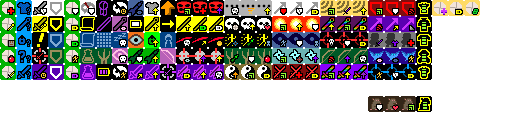
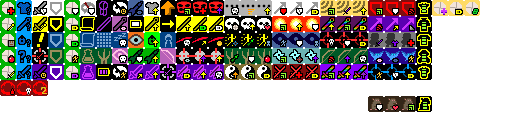
完成暴食狂宴

Changed region(s): [[0.0, 0.625, 0.0938, 0.75], [0.4688, 0.0625, 0.5, 0.125]]

diff --git a/core/src/main/java/com/shatteredpixel/shatteredpixeldungeon/actors/hero/abilities/warrior/Feast.java b/core/src/main/java/com/shatteredpixel/shatteredpixeldungeon/actors/hero/abilities/warrior/Feast.java
@@ -4,9 +4,11 @@ import com.shatteredpixel.shatteredpixeldungeon.Assets;
 import com.shatteredpixel.shatteredpixeldungeon.Dungeon;
 import com.shatteredpixel.shatteredpixeldungeon.actors.Actor;
 import com.shatteredpixel.shatteredpixeldungeon.actors.Char;
+import com.shatteredpixel.shatteredpixeldungeon.actors.buffs.Bleeding;
 import com.shatteredpixel.shatteredpixeldungeon.actors.buffs.Blindness;
 import com.shatteredpixel.shatteredpixeldungeon.actors.buffs.Buff;
 import com.shatteredpixel.shatteredpixeldungeon.actors.buffs.Cripple;
+import com.shatteredpixel.shatteredpixeldungeon.actors.buffs.Healing;
 import com.shatteredpixel.shatteredpixeldungeon.actors.buffs.Hunger;
 import com.shatteredpixel.shatteredpixeldungeon.actors.buffs.Invisibility;
 import com.shatteredpixel.shatteredpixeldungeon.actors.buffs.Terror;
@@ -14,18 +16,25 @@ import com.shatteredpixel.shatteredpixeldungeon.actors.hero.Hero;
 import com.shatteredpixel.shatteredpixeldungeon.actors.hero.Talent;
 import com.shatteredpixel.shatteredpixeldungeon.actors.hero.abilities.ArmorAbility;
 import com.shatteredpixel.shatteredpixeldungeon.actors.mobs.Mob;
+import com.shatteredpixel.shatteredpixeldungeon.effects.Chains;
+import com.shatteredpixel.shatteredpixeldungeon.effects.Effects;
+import com.shatteredpixel.shatteredpixeldungeon.effects.Pushing;
 import com.shatteredpixel.shatteredpixeldungeon.effects.SpellSprite;
+import com.shatteredpixel.shatteredpixeldungeon.items.Item;
 import com.shatteredpixel.shatteredpixeldungeon.items.armor.ClassArmor;
 import com.shatteredpixel.shatteredpixeldungeon.items.food.MysteryMeat;
+import com.shatteredpixel.shatteredpixeldungeon.mechanics.Ballistica;
 import com.shatteredpixel.shatteredpixeldungeon.messages.Messages;
+import com.shatteredpixel.shatteredpixeldungeon.scenes.GameScene;
 import com.shatteredpixel.shatteredpixeldungeon.ui.HeroIcon;
 import com.shatteredpixel.shatteredpixeldungeon.utils.GLog;
 import com.watabou.noosa.audio.Sample;
+import com.watabou.utils.Callback;
 
 public class Feast extends ArmorAbility {
 
     {
-        baseChargeUse = 0f;
+        baseChargeUse = 50f;
     }
 
     @Override
@@ -49,8 +58,16 @@ public class Feast extends ArmorAbility {
             return;
         } else {
             if (Dungeon.level.distance( hero.pos, ch.pos ) > 1) {
-                GLog.w(Messages.get(this, "too_far"));
-                return;
+                if (Dungeon.level.distance( hero.pos, ch.pos ) <= 8+hero.pointsInTalent(Talent.LONG_TONGUE)) {
+                    Ballistica chain = new Ballistica(hero.pos, target, Ballistica.PROJECTILE);
+                    if (!chainEnemy(chain, hero, ch)) {
+                        GLog.w(Messages.get(this, "cant_pull"));
+                        return;
+                    }
+                } else {
+                    GLog.w(Messages.get(this, "too_far"));
+                    return;
+                }
             }
             if (!ch.isAlive()) return;
 
@@ -59,14 +76,24 @@ public class Feast extends ArmorAbility {
                 ch.die(this);
 
                 Buff.affect(hero, Hunger.class).satisfy(Hunger.HUNGRY/2f);
-                Talent.onFoodEaten(hero, Hunger.HUNGRY/2f, new MysteryMeat());
+                Talent.onFoodEaten(hero, Hunger.HUNGRY/6f*hero.pointsInTalent(Talent.HEAL_FEAST), new MysteryMeat());
+                if (hero.hasTalent(Talent.HEAL_FEAST)) Buff.affect(hero, Healing.class).setHeal(Math.round(hero.HT*0.05f* hero.pointsInTalent(Talent.HEAL_FEAST)), 0, 1);
                 GLog.p(Messages.get(this, "success"));
             } else {
+                Buff.affect(ch, Bleeding.class).set(10);
                 Buff.affect(ch, Cripple.class, 10f);
                 Buff.affect(ch, Blindness.class, 10f);
                 Buff.affect(ch, Terror.class, 10f);
 
                 GLog.i(Messages.get(this, "fail"));
+            }
+
+            if (hero.hasTalent(Talent.CRUEL_FEAST)) {
+                for (Mob mob : Dungeon.level.mobs.toArray( new Mob[0] )) {
+                    if (mob.alignment != Char.Alignment.ALLY && Dungeon.level.heroFOV[mob.pos]) {
+                        Buff.affect( mob, Terror.class, 5f*hero.pointsInTalent(Talent.CRUEL_FEAST) ).object = hero.id();
+                    }
+                }
             }
 
             hero.sprite.operate(target);
@@ -88,6 +115,52 @@ public class Feast extends ArmorAbility {
 
     @Override
     public Talent[] talents() {
-        return new Talent[]{Talent.SUSTAINED_RETRIBUTION, Talent.SHRUG_IT_OFF, Talent.EVEN_THE_ODDS, Talent.HEROIC_ENERGY};
+        return new Talent[]{Talent.HEAL_FEAST, Talent.CRUEL_FEAST, Talent.LONG_TONGUE, Talent.HEROIC_ENERGY};
+    }
+
+    private boolean chainEnemy( Ballistica chain, final Hero hero, final Char enemy ){
+        if (enemy.properties().contains(Char.Property.IMMOVABLE))
+            return false;
+
+        int bestPos = -1;
+        for (int i : chain.subPath(1, chain.dist)){
+            //prefer to the earliest point on the path
+            if (!Dungeon.level.solid[i]
+                    && Actor.findChar(i) == null
+                    && (!Char.hasProp(enemy, Char.Property.LARGE) || Dungeon.level.openSpace[i])){
+                bestPos = i;
+                break;
+            }
+        }
+
+        if (bestPos == -1) {
+            return false;
+        }
+
+        final int pulledPos = bestPos;
+
+        hero.busy();
+        new Item().throwSound();
+        Sample.INSTANCE.play( Assets.Sounds.CHAINS );
+        hero.sprite.parent.add(new Chains(hero.sprite.center(),
+                enemy.sprite.center(),
+                Effects.Type.TONGUE,
+                new Callback() {
+            public void call() {
+                Actor.add(new Pushing(enemy, enemy.pos, pulledPos, new Callback() {
+                    public void call() {
+                        enemy.pos = pulledPos;
+
+                        Invisibility.dispel(hero);
+
+                        Dungeon.level.occupyCell(enemy);
+                        Dungeon.observe();
+                        GameScene.updateFog();
+                    }
+                }));
+                hero.next();
+            }
+        }));
+        return true;
     }
 }

diff --git a/core/src/main/java/com/shatteredpixel/shatteredpixeldungeon/actors/hero/Talent.java b/core/src/main/java/com/shatteredpixel/shatteredpixeldungeon/actors/hero/Talent.java
@@ -108,6 +108,8 @@ public enum Talent {
 	EXPANDING_WAVE(20, 4), STRIKING_WAVE(21, 4), SHOCK_FORCE(22, 4),
 	//Endure T4
 	SUSTAINED_RETRIBUTION(23, 4), SHRUG_IT_OFF(24, 4), EVEN_THE_ODDS(25, 4),
+	//Feast T4
+	HEAL_FEAST(160, 4), CRUEL_FEAST(161, 4), LONG_TONGUE(162, 4),
 
 	//Mage T1
 	EMPOWERING_MEAL(32), SCHOLARS_INTUITION(33), LINGERING_MAGIC(34), BACKUP_BARRIER(35),

diff --git a/core/src/main/java/com/shatteredpixel/shatteredpixeldungeon/effects/Effects.java b/core/src/main/java/com/shatteredpixel/shatteredpixeldungeon/effects/Effects.java
@@ -36,7 +36,7 @@ public class Effects {
 		DEATH_RAY,
 		LIGHT_RAY,
 		HEALTH_RAY,
-		TOUGE,
+		TONGUE,
 		VINES
 	}
 	
@@ -61,7 +61,7 @@ public class Effects {
 			case ETHEREAL_CHAIN:
 				icon.frame(icon.texture.uvRect(11, 16, 16, 22));
 				break;
-			case TOUGE:
+			case TONGUE:
 				icon.frame(icon.texture.uvRect(6, 22, 11, 28));
 				break;
 			case VINES:
